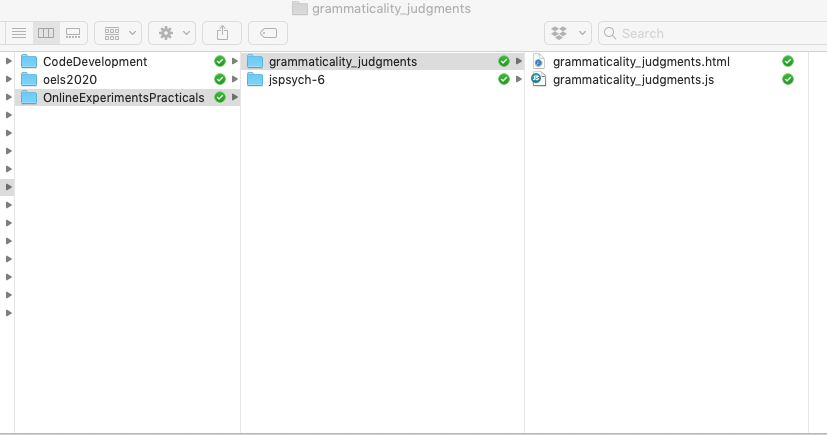
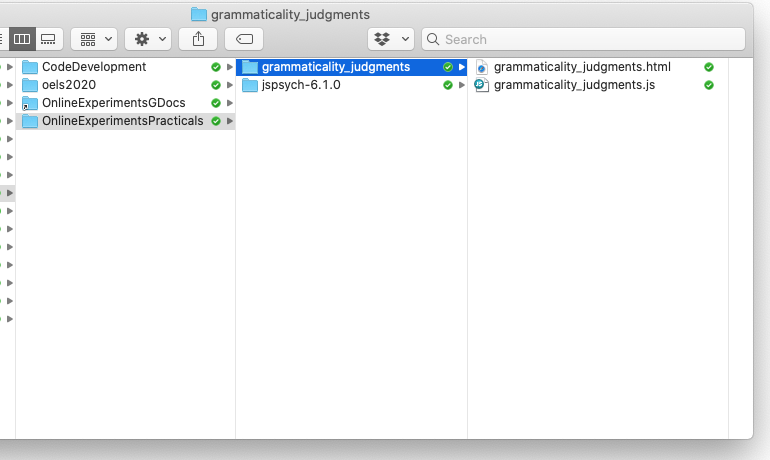
Update images etc for renaming of jspsych folder

Changed region(s): [[0.0, 0.0, 1.0, 1.0]]

diff --git a/oels_practical_wk2.md b/oels_practical_wk2.md
@@ -21,7 +21,7 @@ Some things to note as you work through the practical.
 - We will be playing with code on the teaching server, `jspsychlearning.ppls.ed.ac.uk`. As soon as I have the class registration list I will ask the techies to create an account for you on there. Until they set that up, you won't be able to access it, but you can still read through the tutorial. Also, you need to be on the University network to log in to the server (to upload files etc) - see instructions in the [Week 2 reading page](oels_reading_wk2.md) on how to access the VPN.
 - In section 02, the tutorial recommends using CyberDuck for uploading files to the server - I agree, it's very nice. Just to emphasise, *you don't need to pay for it*, although it will ask you if you'd like to ocasionally. I have bought a license because I use it a lot, if that helps assuage your guilt.
 - In section 03 the tutorial runs through some potential editors you can use to view/edit code. I am using Atom on a Mac, it's OK - if you want to use that you might have to download it from [the Atom website](https://atom.io).
-- Note that in the jsPsych "hello world" tutorial, the name of the directory they give for the jspsych code might not match the name of the directory for you. In the tutorial it says that you load the various bits of jsPsych code with code like `<script src="jspsych-6.0.5/jspsych.js"></script>`, but for me the downloaded jspsych code is actually in a directory called `jspsych-6` so I had to edit that script call to read `<script src="jspsych-6/jspsych.js"></script>`, just so the browser is looking in the right place. If you try to run the hello world tutorial code and get a bunch of errors telling you that it can't find certain files, this might be the problem.
+- Note that in the jsPsych "hello world" tutorial, the name of the directory they give for the jspsych code might not match the name of the directory for you. In the tutorial it says that you load the various bits of jsPsych code with code like `<script src="jspsych-6.0.5/jspsych.js"></script>`, but for me the downloaded jspsych code is actually in a directory called `jspsych-6.1.0` so I had to edit that script call to read `<script src="jspsych-6.1.0/jspsych.js"></script>`, just so the browser is looking in the right place. If you try to run the hello world tutorial code and get a blank screen and a bunch of errors in the console telling you that it can't find certain files, this might be the problem.
 
 
 ## Solutions to common problems

diff --git a/oels_practical_wk3.md b/oels_practical_wk3.md
@@ -31,7 +31,7 @@ You need two files for this experiment, which you can download through the follo
 - <a href="code/grammaticality_judgments/grammaticality_judgments.html" download> Download grammaticality_judgments.html</a>
 - <a href="code/grammaticality_judgments/grammaticality_judgments.js" download> Download grammaticality_judgments.js</a>
 
-The code makes some assumptions about where you will save it - you can change that if you want but then you'll have to edit the code so it is looking in the right place, so it might be simpler to copy my directory structure. Create a directory (or folder if you prefer that name) called e.g. `OnlineExperimentsPracticals`. Copy the jsPsych code you downloaded (for me that folder is called `jspsych-6`) into your `OnlineExperimentsPracticals` folder. Then create a new folder inside the `OnlineExperimentsPracticals` folder called `grammaticality_judgments`, copy the two files you just downloaded in there. So if you do that all correctly you will have a folder called `OnlineExperimentsPracticals` that has two sub-folders, the jspsych source code and then the grammaticality judgments code. On my mac it looks like this.
+The code makes some assumptions about where you will save it - you can change that if you want but then you'll have to edit the code so it is looking in the right place, so it might be simpler to copy my directory structure. Create a directory (or folder if you prefer that name) called e.g. `OnlineExperimentsPracticals`. Copy the jsPsych code you downloaded (for me that folder is called `jspsych-6.1.0`) into your `OnlineExperimentsPracticals` folder. Then create a new folder inside the `OnlineExperimentsPracticals` folder called `grammaticality_judgments`, copy the two files you just downloaded in there. So if you do that all correctly you will have a folder called `OnlineExperimentsPracticals` that has two sub-folders, the jspsych source code and then the grammaticality judgments code. On my mac it looks like this.
 
 ![suggested directory structure](images/directory_structure.png)
 

diff --git a/oels_practical_wk4.md b/oels_practical_wk4.md
@@ -27,7 +27,7 @@ You need two files for this experiment, which you can download through the follo
 - <a href="code/self_paced_reading/self_paced_reading.html" download> Download self_paced_reading.html</a>
 - <a href="code/self_paced_reading/self_paced_reading.js" download> Download self_paced_reading.js</a>
 
-Again, the code makes some assumptions about the directory structure it's going to live in - regardless of whether you are putting this on your own computer or on the jspsychlearning server, these should sit in a folder called something like `self_paced_reading`, alongside your `grammaticality_judgments` folder from last week and a `jspsych-6` folder containing all the jsPsych code - so your folder will now look something like this.
+Again, the code makes some assumptions about the directory structure it's going to live in - regardless of whether you are putting this on your own computer or on the jspsychlearning server, these should sit in a folder called something like `self_paced_reading`, alongside your `grammaticality_judgments` folder from last week and a `jspsych-6.1.0` folder containing all the jsPsych code - so your folder will now look something like this.
 
 ![suggested directory structure](images/spr_directory_structure.png)
 
